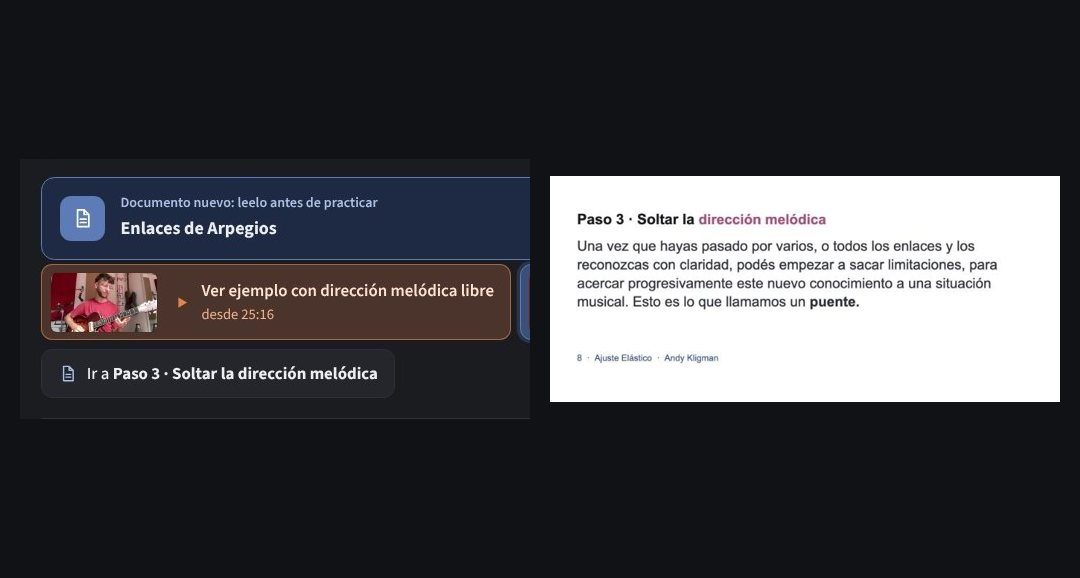
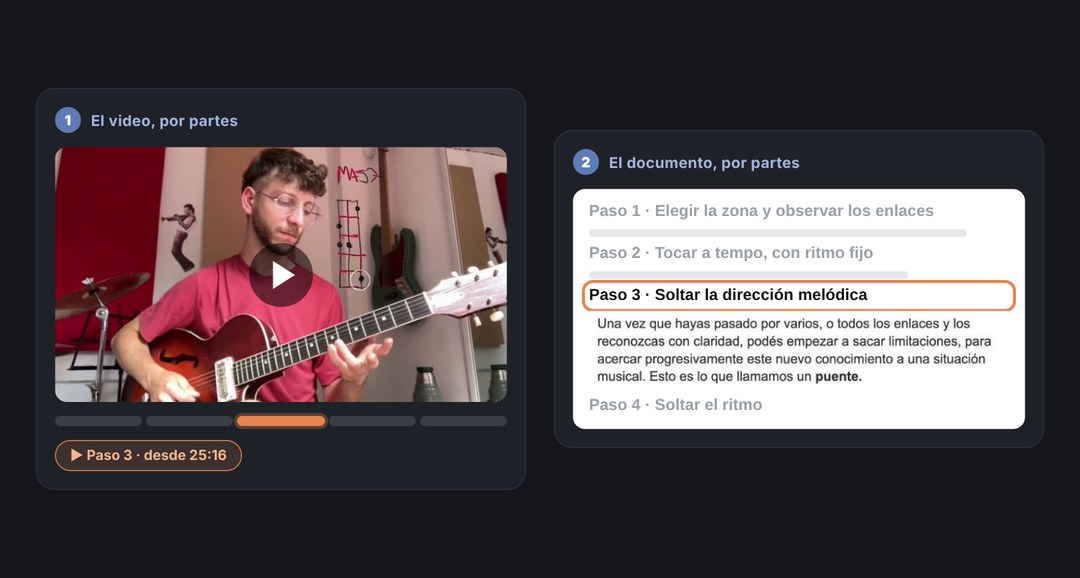
Panel: alumnos por día de clase (se abre el de hoy) e inactivos plegados; Clases y avance abierto. Unidades rítmicas: consigna corregida. Imagen nueva de video y documento por partes
Claude-Session: https://claude.ai/code/session_01WEREQYnpXuUCpYi6uAVcJ5

diff --git a/index.html b/index.html
@@ -1693,6 +1693,11 @@ body.hay-grande #consulta,body.hay-grande .barra,body.hay-grande #panel-video{vi
 .av-mas{margin-top:14px;font-size:14px}
 .av-mas summary{cursor:pointer;opacity:.75}
 .av-mas .aj-fila{margin:10px 0}
+.grupo-dia{background:transparent;border:0;margin:4px 0}
+.grupo-dia>summary{padding:12px 4px;font-size:18px;border-bottom:1px solid var(--linea)}
+.grupo-dia>.sec-cuerpo{padding:4px 0 12px}
+.grupo-dia.inactivos>summary{opacity:.6;font-size:16px}
+.grupo-dia.inactivos .alumno-card{opacity:.6}
 </style>
 </head>
 <body>
@@ -1848,7 +1853,7 @@ const STOPS = {
       { sel: [-1, -1], pausa: true, grande: true, extra: 600, t: 'En cada paso, el aula te lleva a **la parte justa** del documento,\ncon el botón **«Ir a…»**.',
         imgs: [{ src: 'img/docs/aula-ir-a.jpg', marca: [6.3, 65.5, 33.2, 8.8], clic: true, ms: 2400 }, { src: 'img/docs/ir-a-doc.jpg', marca: [18.8, 34.6, 34, 6.2] }] },
       { sel: [-1, -1], pausa: true, grande: true, t: 'Así recorrés el video y el documento por partes,\ncada cosa en su momento.',
-        imgs: [{ src: 'img/docs/partes.jpg' }] },
+        imgs: [{ src: 'img/docs/partes.jpg?v=2' }] },
       { sel: [-1, -1], pausa: true, grande: true, t: 'Si un día lo querés usar directo en Drive,\nbuscar a mano es engorroso: **los documentos son largos**.', imgModo: 'loop',
         imgs: [{ src: 'img/docs/largo2.jpg' }, { src: 'img/docs/largo3.jpg' }, { src: 'img/docs/largo4.jpg' }, { src: 'img/docs/largo1.jpg' }] },
       { sel: [-1, -1], pausa: true, grande: true, extra: 500, t: 'Para eso está **la solapita de la izquierda**,\ncon todos los títulos.',
@@ -2640,7 +2645,7 @@ const PROGRAMA = {
       recursos: [{ t: 'Abrir el generador de ritmos fijos', url: 'https://ritmo.ajuste-elastico.com/#fijo', web: true }],
     },
     {
-      id: 'r7', etapa: 'ritmo', progreso: PROGRESO_RITMO, entrega: 'video', envia: 'un video improvisando con el cuerpo o con la guitarra: elegí 1 o 2 elementos (1 o 2 unidades rítmicas), contá en el video cuáles son y hacé una improvisación buscando hacer mucho con poco.',
+      id: 'r7', etapa: 'ritmo', progreso: PROGRESO_RITMO, entrega: 'video', envia: 'un video improvisando con el cuerpo o con la guitarra: elegí 1 o 2 unidades rítmicas, contá en el video cuáles son y hacé una improvisación buscando hacer mucho con poco.',
       video: { id: 'A4rxE6i5VwY' },
       grupo: 'Improvisación con unidades rítmicas',
       titulo: 'Unidades rítmicas y variabilidad en la improvisación',
@@ -5223,6 +5228,27 @@ function renderAdmin() {
   urlAdmin();
 }
 
+/* Alumnos por día de clase, en el orden del día. Se reconocen por cómo empieza el nombre (sin tildes),
+   así los que todavía no se registraron entran solos cuando lo hagan. Para cambiarlo, editar acá. */
+const HORARIO = [
+  { id: 'lunes', titulo: 'Lunes', dia: 1, alumnos: ['antonio sanchez', 'fran', 'leonardo belli', 'ger gonzalez', 'juan manuel carrasco'] },
+  { id: 'martes', titulo: 'Martes', dia: 2, alumnos: ['ignacio lessa', 'matias otero', 'fito ulrich', "beto d'alessandro", 'luis'] },
+  { id: 'jueves', titulo: 'Jueves', dia: 4, alumnos: ['kelbin', 'nestor', 'juan francisco barbaro'] },
+];
+const INACTIVOS = ['manuel toma', 'rodrigo machuca'];
+function gruposDia(filas) {
+  const n = a => sinTildes(a.nombre).replace(/\s+/g, ' ').trim(), es = (a, pat) => n(a) === pat || n(a).startsWith(pat + ' ') || n(a) === pat;
+  const usados = new Set(), hoy = new Date().getDay();
+  const grupos = HORARIO.map(d => {
+    const fs = d.alumnos.flatMap(pat => filas.filter(f => !usados.has(f.a.codigo) && es(f.a, pat))).filter(f => { if (usados.has(f.a.codigo)) return false; usados.add(f.a.codigo); return true; });
+    return { id: d.id, titulo: d.titulo, hoy: d.dia === hoy, filas: fs };
+  }).filter(g => g.filas.length);
+  const inact = filas.filter(f => !usados.has(f.a.codigo) && INACTIVOS.some(pat => es(f.a, pat))); inact.forEach(f => usados.add(f.a.codigo));
+  const resto = filas.filter(f => !usados.has(f.a.codigo));
+  if (resto.length) grupos.push({ id: 'otros', titulo: 'Sin día asignado', filas: resto });
+  if (inact.length) grupos.push({ id: 'inactivos', titulo: 'Inactivos', filas: inact });
+  return grupos;
+}
 /* Inicio del panel: primero los videos para ver, después todos los alumnos */
 let buscaAdm = '';
 const sinTildes = t => String(t || '').toLowerCase().normalize('NFD').replace(/[\u0300-\u036f]/g, '');
@@ -5242,7 +5268,7 @@ function inicioAdmHTML() {
     </div>
     <section class="lista">
       <div class="lista-busca"><h2>${ICONO_ADM.alumnos}Alumnos <span class="suave chico">${LISTA.length}</span></h2><input type="search" id="buscaAlumno" placeholder="Buscar por nombre" autocomplete="off" value="${esc(buscaAdm)}" aria-label="Buscar alumno por nombre"></div>
-      <div class="alumnos-grid">${filas.map(({ a, e }) => {
+      ${gruposDia(filas).map(g => secAdm('dia-' + g.id, `${esc(g.titulo)} <span class="suave chico">${g.filas.length}</span>${g.hoy ? ' <span class="cuenta">hoy</span>' : ''}`, `<div class="alumnos-grid">${g.filas.map(({ a, e }) => {
           const nprob = Object.values(a.prog || {}).filter(x => x.hecho && x.como === 'cuesta').length;
           const nvid = videosNuevos(a);
           const ps = PROGRAMA.pasos.filter(p => !p.soloLlamada && !p.opcional), h = ps.filter(p => a.prog[p.id]?.hecho).length;
@@ -5251,7 +5277,7 @@ function inicioAdmHTML() {
             <span class="ac-datos"><span>${a.clase || 0}/${TOTAL_ENCUENTROS} clases</span><span>Nivel ${a.nivel}</span><span class="suave">${a.act ? haceTanto(a.act) : 'sin movimiento'}</span></span>
             <span class="ac-barra"><i style="width:${ps.length ? Math.round(h / ps.length * 100) : 0}%"></i></span>
             ${a.ajustar || nvid || nprob ? `<span class="ac-marcas">${a.ajustar ? `<span class="marca-ajustar">Nuevo: ajustá nivel y fecha</span>` : ''}${nvid ? `<span class="marca-video">${nvid === 1 ? '1 video nuevo' : nvid + ' videos nuevos'}</span>` : ''}${nprob ? `<span class="marca-prob">Le cuesta${nprob > 1 ? 'n ' + nprob + ' pasos' : ' 1 paso'}</span>` : ''}</span>` : ''}
-          </button>`; }).join('') || '<p class="suave">Todavía no hay alumnos.</p>'}</div>
+          </button>`; }).join('')}</div>`, 'grupo-dia' + (g.id === 'inactivos' ? ' inactivos' : ''))).join('') || '<p class="suave">Todavía no hay alumnos.</p>'}
     </section>`;
 }
 function marcarModulo(prog, m) {
@@ -5338,7 +5364,7 @@ function mensajeAdmHTML(a, pasoVideo) {
   </div>`;
 }
 /* Secciones del panel de cada alumno: cerradas hasta que las abrís; se acuerda cuáles abriste */
-const admAbiertas = new Set(['videos-ver']);
+const admAbiertas = new Set(['videos-ver', 'clases', 'otros', 'dia-otros', ...HORARIO.filter(d => d.dia === new Date().getDay()).map(d => 'dia-' + d.id)]);
 function secAdm(id, titulo, contenido, cls = '') {
   return `<details class="sec-adm ${cls}" data-sec="${id}" ${admAbiertas.has(id) ? 'open' : ''}><summary><span>${titulo}</span></summary><div class="sec-cuerpo">${contenido}</div></details>`;
 }
@@ -5451,7 +5477,8 @@ function enlazarAdmin() {
   const a = LISTA.find(x => x.codigo === elegido);
   if (!root._secs) { root._secs = 1; root.addEventListener('toggle', ev => { const d = ev.target; if (d.dataset && d.dataset.sec) d.open ? admAbiertas.add(d.dataset.sec) : admAbiertas.delete(d.dataset.sec); }, true); }
   const bus = $('#buscaAlumno');
-  if (bus) bus.oninput = () => { buscaAdm = bus.value; const q = sinTildes(bus.value.trim()); root.querySelectorAll('[data-elegir]').forEach(tr => { tr.hidden = !!q && !tr.dataset.nombre.includes(q); }); };
+  if (bus) bus.oninput = () => { buscaAdm = bus.value; const q = sinTildes(bus.value.trim()); root.querySelectorAll('[data-elegir]').forEach(tr => { tr.hidden = !!q && !tr.dataset.nombre.includes(q); });
+    root.querySelectorAll('.grupo-dia').forEach(g => { const hay = [...g.querySelectorAll('[data-elegir]')].some(x => !x.hidden); if (q) { g.hidden = !hay; if (hay) g.open = true; } else g.hidden = false; }); };
   root.onclick = async ev => {
     const tr = ev.target.closest('[data-elegir]');
     if (tr) { elegido = tr.dataset.elegir; videoSel = null; renderAdmin(); window.scrollTo(0, 0); return; }

diff --git a/fuente/ui.js b/fuente/ui.js
@@ -467,6 +467,27 @@ function renderAdmin() {
   urlAdmin();
 }
 
+/* Alumnos por día de clase, en el orden del día. Se reconocen por cómo empieza el nombre (sin tildes),
+   así los que todavía no se registraron entran solos cuando lo hagan. Para cambiarlo, editar acá. */
+const HORARIO = [
+  { id: 'lunes', titulo: 'Lunes', dia: 1, alumnos: ['antonio sanchez', 'fran', 'leonardo belli', 'ger gonzalez', 'juan manuel carrasco'] },
+  { id: 'martes', titulo: 'Martes', dia: 2, alumnos: ['ignacio lessa', 'matias otero', 'fito ulrich', "beto d'alessandro", 'luis'] },
+  { id: 'jueves', titulo: 'Jueves', dia: 4, alumnos: ['kelbin', 'nestor', 'juan francisco barbaro'] },
+];
+const INACTIVOS = ['manuel toma', 'rodrigo machuca'];
+function gruposDia(filas) {
+  const n = a => sinTildes(a.nombre).replace(/\s+/g, ' ').trim(), es = (a, pat) => n(a) === pat || n(a).startsWith(pat + ' ') || n(a) === pat;
+  const usados = new Set(), hoy = new Date().getDay();
+  const grupos = HORARIO.map(d => {
+    const fs = d.alumnos.flatMap(pat => filas.filter(f => !usados.has(f.a.codigo) && es(f.a, pat))).filter(f => { if (usados.has(f.a.codigo)) return false; usados.add(f.a.codigo); return true; });
+    return { id: d.id, titulo: d.titulo, hoy: d.dia === hoy, filas: fs };
+  }).filter(g => g.filas.length);
+  const inact = filas.filter(f => !usados.has(f.a.codigo) && INACTIVOS.some(pat => es(f.a, pat))); inact.forEach(f => usados.add(f.a.codigo));
+  const resto = filas.filter(f => !usados.has(f.a.codigo));
+  if (resto.length) grupos.push({ id: 'otros', titulo: 'Sin día asignado', filas: resto });
+  if (inact.length) grupos.push({ id: 'inactivos', titulo: 'Inactivos', filas: inact });
+  return grupos;
+}
 /* Inicio del panel: primero los videos para ver, después todos los alumnos */
 let buscaAdm = '';
 const sinTildes = t => String(t || '').toLowerCase().normalize('NFD').replace(/[\u0300-\u036f]/g, '');
@@ -486,7 +507,7 @@ function inicioAdmHTML() {
     </div>
     <section class="lista">
       <div class="lista-busca"><h2>${ICONO_ADM.alumnos}Alumnos <span class="suave chico">${LISTA.length}</span></h2><input type="search" id="buscaAlumno" placeholder="Buscar por nombre" autocomplete="off" value="${esc(buscaAdm)}" aria-label="Buscar alumno por nombre"></div>
-      <div class="alumnos-grid">${filas.map(({ a, e }) => {
+      ${gruposDia(filas).map(g => secAdm('dia-' + g.id, `${esc(g.titulo)} <span class="suave chico">${g.filas.length}</span>${g.hoy ? ' <span class="cuenta">hoy</span>' : ''}`, `<div class="alumnos-grid">${g.filas.map(({ a, e }) => {
           const nprob = Object.values(a.prog || {}).filter(x => x.hecho && x.como === 'cuesta').length;
           const nvid = videosNuevos(a);
           const ps = PROGRAMA.pasos.filter(p => !p.soloLlamada && !p.opcional), h = ps.filter(p => a.prog[p.id]?.hecho).length;
@@ -495,7 +516,7 @@ function inicioAdmHTML() {
             <span class="ac-datos"><span>${a.clase || 0}/${TOTAL_ENCUENTROS} clases</span><span>Nivel ${a.nivel}</span><span class="suave">${a.act ? haceTanto(a.act) : 'sin movimiento'}</span></span>
             <span class="ac-barra"><i style="width:${ps.length ? Math.round(h / ps.length * 100) : 0}%"></i></span>
             ${a.ajustar || nvid || nprob ? `<span class="ac-marcas">${a.ajustar ? `<span class="marca-ajustar">Nuevo: ajustá nivel y fecha</span>` : ''}${nvid ? `<span class="marca-video">${nvid === 1 ? '1 video nuevo' : nvid + ' videos nuevos'}</span>` : ''}${nprob ? `<span class="marca-prob">Le cuesta${nprob > 1 ? 'n ' + nprob + ' pasos' : ' 1 paso'}</span>` : ''}</span>` : ''}
-          </button>`; }).join('') || '<p class="suave">Todavía no hay alumnos.</p>'}</div>
+          </button>`; }).join('')}</div>`, 'grupo-dia' + (g.id === 'inactivos' ? ' inactivos' : ''))).join('') || '<p class="suave">Todavía no hay alumnos.</p>'}
     </section>`;
 }
 function marcarModulo(prog, m) {
@@ -582,7 +603,7 @@ function mensajeAdmHTML(a, pasoVideo) {
   </div>`;
 }
 /* Secciones del panel de cada alumno: cerradas hasta que las abrís; se acuerda cuáles abriste */
-const admAbiertas = new Set(['videos-ver']);
+const admAbiertas = new Set(['videos-ver', 'clases', 'otros', 'dia-otros', ...HORARIO.filter(d => d.dia === new Date().getDay()).map(d => 'dia-' + d.id)]);
 function secAdm(id, titulo, contenido, cls = '') {
   return `<details class="sec-adm ${cls}" data-sec="${id}" ${admAbiertas.has(id) ? 'open' : ''}><summary><span>${titulo}</span></summary><div class="sec-cuerpo">${contenido}</div></details>`;
 }
@@ -695,7 +716,8 @@ function enlazarAdmin() {
   const a = LISTA.find(x => x.codigo === elegido);
   if (!root._secs) { root._secs = 1; root.addEventListener('toggle', ev => { const d = ev.target; if (d.dataset && d.dataset.sec) d.open ? admAbiertas.add(d.dataset.sec) : admAbiertas.delete(d.dataset.sec); }, true); }
   const bus = $('#buscaAlumno');
-  if (bus) bus.oninput = () => { buscaAdm = bus.value; const q = sinTildes(bus.value.trim()); root.querySelectorAll('[data-elegir]').forEach(tr => { tr.hidden = !!q && !tr.dataset.nombre.includes(q); }); };
+  if (bus) bus.oninput = () => { buscaAdm = bus.value; const q = sinTildes(bus.value.trim()); root.querySelectorAll('[data-elegir]').forEach(tr => { tr.hidden = !!q && !tr.dataset.nombre.includes(q); });
+    root.querySelectorAll('.grupo-dia').forEach(g => { const hay = [...g.querySelectorAll('[data-elegir]')].some(x => !x.hidden); if (q) { g.hidden = !hay; if (hay) g.open = true; } else g.hidden = false; }); };
   root.onclick = async ev => {
     const tr = ev.target.closest('[data-elegir]');
     if (tr) { elegido = tr.dataset.elegir; videoSel = null; renderAdmin(); window.scrollTo(0, 0); return; }

diff --git a/fuente/programa.js b/fuente/programa.js
@@ -146,7 +146,7 @@ const STOPS = {
       { sel: [-1, -1], pausa: true, grande: true, extra: 600, t: 'En cada paso, el aula te lleva a **la parte justa** del documento,\ncon el botón **«Ir a…»**.',
         imgs: [{ src: 'img/docs/aula-ir-a.jpg', marca: [6.3, 65.5, 33.2, 8.8], clic: true, ms: 2400 }, { src: 'img/docs/ir-a-doc.jpg', marca: [18.8, 34.6, 34, 6.2] }] },
       { sel: [-1, -1], pausa: true, grande: true, t: 'Así recorrés el video y el documento por partes,\ncada cosa en su momento.',
-        imgs: [{ src: 'img/docs/partes.jpg' }] },
+        imgs: [{ src: 'img/docs/partes.jpg?v=2' }] },
       { sel: [-1, -1], pausa: true, grande: true, t: 'Si un día lo querés usar directo en Drive,\nbuscar a mano es engorroso: **los documentos son largos**.', imgModo: 'loop',
         imgs: [{ src: 'img/docs/largo2.jpg' }, { src: 'img/docs/largo3.jpg' }, { src: 'img/docs/largo4.jpg' }, { src: 'img/docs/largo1.jpg' }] },
       { sel: [-1, -1], pausa: true, grande: true, extra: 500, t: 'Para eso está **la solapita de la izquierda**,\ncon todos los títulos.',
@@ -938,7 +938,7 @@ const PROGRAMA = {
       recursos: [{ t: 'Abrir el generador de ritmos fijos', url: 'https://ritmo.ajuste-elastico.com/#fijo', web: true }],
     },
     {
-      id: 'r7', etapa: 'ritmo', progreso: PROGRESO_RITMO, entrega: 'video', envia: 'un video improvisando con el cuerpo o con la guitarra: elegí 1 o 2 elementos (1 o 2 unidades rítmicas), contá en el video cuáles son y hacé una improvisación buscando hacer mucho con poco.',
+      id: 'r7', etapa: 'ritmo', progreso: PROGRESO_RITMO, entrega: 'video', envia: 'un video improvisando con el cuerpo o con la guitarra: elegí 1 o 2 unidades rítmicas, contá en el video cuáles son y hacé una improvisación buscando hacer mucho con poco.',
       video: { id: 'A4rxE6i5VwY' },
       grupo: 'Improvisación con unidades rítmicas',
       titulo: 'Unidades rítmicas y variabilidad en la improvisación',

diff --git a/fuente/shell.html b/fuente/shell.html
@@ -302,6 +302,11 @@ h1,h2,h3{font-family:var(--display);font-weight:600;line-height:1.2;margin:0;let
 .av-mas{margin-top:14px;font-size:14px}
 .av-mas summary{cursor:pointer;opacity:.75}
 .av-mas .aj-fila{margin:10px 0}
+.grupo-dia{background:transparent;border:0;margin:4px 0}
+.grupo-dia>summary{padding:12px 4px;font-size:18px;border-bottom:1px solid var(--linea)}
+.grupo-dia>.sec-cuerpo{padding:4px 0 12px}
+.grupo-dia.inactivos>summary{opacity:.6;font-size:16px}
+.grupo-dia.inactivos .alumno-card{opacity:.6}
 </style>
 </head>
 <body>
